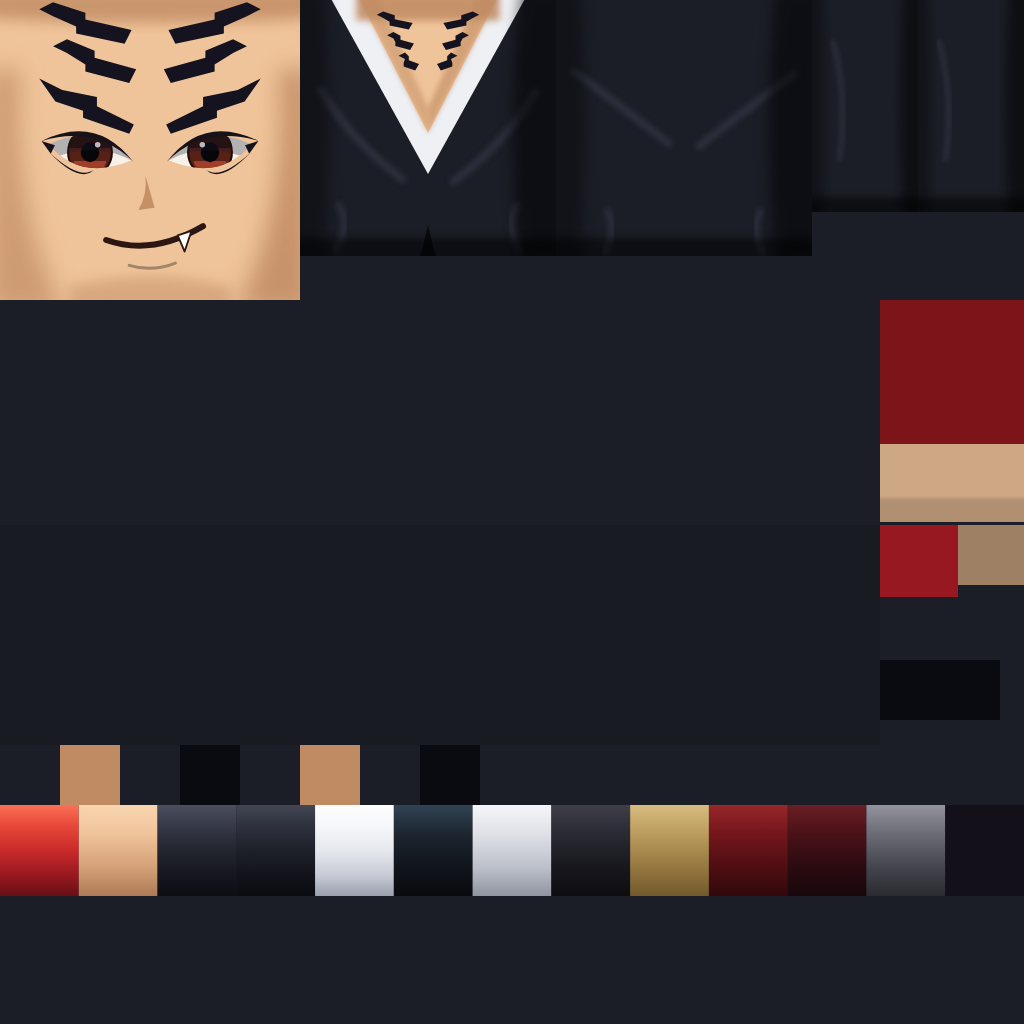
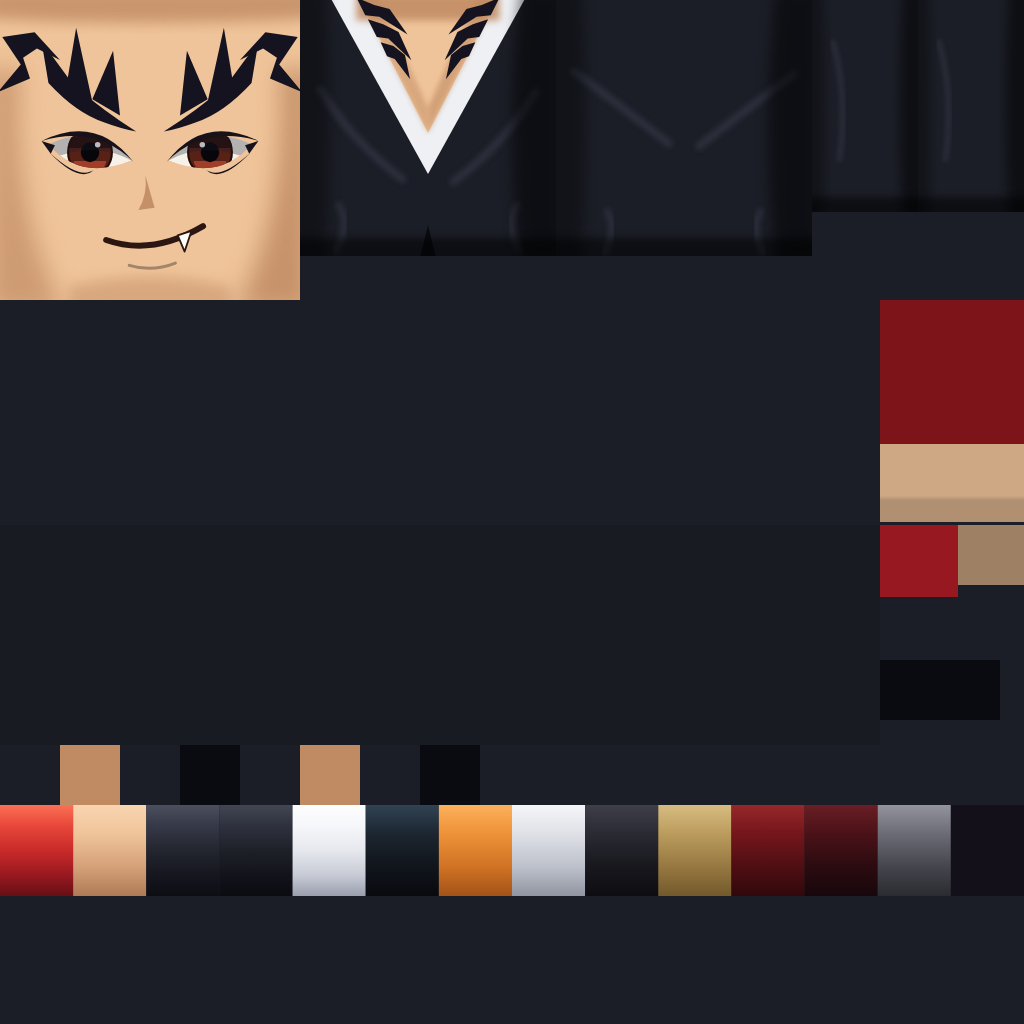
soul_fang: source tattoo layout and striped visor, re-uploaded
Owner 2026-11-04: tattoos are a body pattern; neck bands sit on the chest.

diff --git a/tools/blender/paint/char_soul_fang.py b/tools/blender/paint/char_soul_fang.py
@@ -1,7 +1,7 @@
 # Target look for soul_fang "Renjy" (design doc section 5): a tall red ponytail bursting into spikes, the forehead bare under white-strapped
-# goggles, angular dark brow and forehead marks, marks on the upper chest (the block figure has no neck); a black robe over a white undershirt, a thin white cord,
+# goggles with one dark visor and an orange stripe, forked dark tattoo lines from the brow up the forehead, tattoo wedges at the top of the chest (the block figure has no neck); a black robe over a white undershirt, a thin white cord,
 # wide black hakama, white split-toe socks and straw sandals, a plain sword at his left hip. +X is the viewer's right in the front view.
-# Drawn in-house. Every tattoo line here is a changed shape: same place, size and colour as the source, its own stepped bars.
+# Drawn in-house. The tattoos are a body pattern, not symbol marks (owner 2026-11-04): they follow the source layout and shape.
 import math
 
 from atlas import shade
@@ -12,7 +12,7 @@ from style2 import Ramps
 
 SKIN = "#f0c49a"
 SKIN_D = "#c08a62"
-INK = "#14131f"  # the marks: near black with a little indigo
+INK = "#14131f"  # the tattoos: near black with a little indigo
 COAT = "#1c1e27"
 COAT_L = "#3a3e4e"
 WHITE = "#eef0f4"
@@ -25,6 +25,7 @@ R = Ramps(
 	hakama=["#090a0f", "#12131a", "#1e2029", "#2f323e", "#474a58"],
 	white=["#8f94a4", "#c6cad4", "#e6e8ee", "#f6f7fa", "#ffffff"],
 	lens=["#07080c", "#10141b", "#1c2630", "#34485a"],
+	stripe=["#9c4d17", "#cf7224", "#ee9238", "#ffb561"],
 	strap=["#8a8d9a", "#bcc0ca", "#dfe1e7", "#f8f9fb"],
 	tie=["#0b0b0f", "#17171d", "#2a2a33", "#42424e"],
 	straw=["#6d5428", "#957740", "#bb9c5e", "#dcc186"],
@@ -83,7 +84,7 @@ def _hair(k):
 
 
 def _goggles(k):
-	"""Pushed up where the hair starts: a white strap round the head, two square dark lenses in white frames."""
+	"""Pushed up where the hair starts: a white strap round the head, one dark visor in a white frame, an orange stripe across it."""
 	rings = []
 	n = 16
 	for x_y, z in ((1.0, 5.34), (1.05, 5.36), (1.05, 5.5), (1.0, 5.52)):
@@ -95,11 +96,9 @@ def _goggles(k):
 		rings.append(ring)
 	verts, faces, flat = k._loft(rings)
 	bake(k._mesh("Strap", "Head", verts, faces, flat, outline=0), "strap", k, a=0.52, b=0.4)
-	for s in (1, -1):
-		x = s * 0.38
-		block(k, "Head", f"Frame{s}", x, -0.98, 5.76, 5.34, 0.33, 0.1, "white", ch=0.04, corner=0.25, a=0.56, b=0.4)
-		block(k, "Head", f"Lens{s}", x, -1.085, 5.7, 5.4, 0.26, 0.015, "lens", ch=0.008, corner=0.2, a=0.46, b=0.5, g=0.3)
-	block(k, "Head", "Bridge", 0, -1.04, 5.58, 5.5, 0.07, 0.05, "white", ch=0.015, a=0.54, b=0.4)
+	block(k, "Head", "Frame", 0, -0.98, 5.78, 5.34, 1.0, 0.1, "white", ch=0.04, corner=0.25, a=0.56, b=0.4)
+	block(k, "Head", "Visor", 0, -1.085, 5.71, 5.37, 0.92, 0.015, "lens", ch=0.008, corner=0.2, a=0.46, b=0.5, g=0.3)
+	block(k, "Head", "Stripe", 0, -1.105, 5.61, 5.55, 0.84, 0.008, "stripe", ch=0.004, a=0.56, b=0.3)
 
 
 def _robe(k):
@@ -163,13 +162,6 @@ def model(parts, kit):
 # ---- paint
 
 
-def _bar(f, x0, y0, x1, y1, h, step=3):
-	"""One changed tattoo line: a stepped bar, a square notch cut in its underside, a chevron end."""
-	mx, my = (x0 + x1) / 2, (y0 + y1) / 2
-	d = 1 if x1 > x0 else -1
-	f.path(f"M{x0} {y0}L{mx} {my}L{mx} {my - step}L{x1 - d * h} {y1 - step}L{x1} {y1 - step + h / 2}L{x1 - d * h} {y1 - step + h}L{mx + d * 4} {my - step + h}L{mx + d * 4} {my + h}L{x0 + d * 3} {y0 + h}Z", INK)
-
-
 def _fold(f, x0, y0, cx, cy, x1, y1, op=0.55, sw=6):
 	f.path(f"M{x0} {y0}Q{cx} {cy} {x1} {y1}", stroke=COAT_L, sw=sw, opacity=op, blur=2)
 
@@ -183,11 +175,12 @@ def _torso(a):
 	f.soft("M44 -5H156V16H44Z", SKIN_D, 0.85, 3)
 	f.soft("M44 -5L100 104V84L60 -5Z", SKIN_D, 0.5, 2)
 	f.soft("M156 -5L100 104V84L140 -5Z", SKIN_D, 0.6, 2)
-	# the marks on the neck and upper chest
+	# the neck tattoos, moved to the top of the chest: stacked wedges rooted at the collar, tips running in and down
 	for s in (1, -1):
-		_bar(f, 100 + s * 12, 18, 100 + s * 40, 12, 5)
-		_bar(f, 100 + s * 11, 34, 100 + s * 32, 28, 5)
-		_bar(f, 100 + s * 7, 50, 100 + s * 23, 44, 5)
+		c = lambda u: 100 + s * u
+		f.path(f"M{c(56)} -2L{c(49)} 12L{c(38)} 13L{c(16)} 27L{c(30)} 7L{c(42)} 4Z", INK)
+		f.path(f"M{c(47)} 15L{c(40)} 29L{c(31)} 30L{c(13)} 47L{c(23)} 25L{c(35)} 19Z", INK)
+		f.path(f"M{c(37)} 33L{c(32)} 44L{c(26)} 46L{c(14)} 62L{c(18)} 43L{c(27)} 36Z", INK)
 	_fold(f, 16, 70, 40, 110, 80, 140)
 	_fold(f, 184, 72, 160, 112, 120, 142)
 	_fold(f, 30, 160, 40, 175, 28, 196, 0.5, 5)
@@ -229,12 +222,14 @@ def _face(f):
 	f.soft("M30 124Q65 116 100 124V135H30Z", SKIN_D, 0.5, 3)
 	for cx, s in ((39, -1), (91, 1)):
 		eye2(f, cx, 66, s, 36, 15, "#6e2a1c", tilt=3.6, r=9.5, lid=0.22, lash="#17121a", lash_t=3.2, flick=3, pupil=0.42, sclera="#f6f2ea", crease_line=False)
-		# the tattooed brow, changed: a heavy stepped wedge, inner end low, a barb on top at the outer end
-		ix, ox = cx - s * 19, cx + s * 22
-		f.path(f"M{ix} 54L{cx - s * 3} 46L{cx - s * 3} 42L{cx + s * 12} 39L{ox} 34L{cx + s * 15} 44L{cx + s * 3} 48L{cx + s * 3} 51L{ix + s * 2} 58Z", INK)
-		# the forehead marks, changed: two stepped bars running up from the brow
-		_bar(f, cx - s * 20, 30, cx + s * 16, 20, 6)
-		_bar(f, cx - s * 18, 13, cx + s * 22, 4, 6)
+		# the tattoo: a brow line, pointed and low at the nose, thick as it climbs out to the temple
+		c = lambda u: 65 + s * u
+		f.path(f"M{c(6)} 57Q{c(20)} 48 {c(33)} 37L{c(47)} 18L{c(44)} 36Q{c(32)} 49 {c(20)} 53Q{c(12)} 56 {c(6)} 57Z", INK)
+		# forks rising off it to the hairline
+		f.path(f"M{c(13)} 50L{c(16)} 22L{c(25)} 43Z", INK)
+		f.path(f"M{c(25)} 44L{c(32)} 12L{c(36)} 36Z", INK)
+		# the upper line along the hairline, ending in a zigzag at the temple
+		f.path(f"M{c(39)} 26L{c(50)} 14L{c(64)} 16L{c(56)} 28L{c(66)} 40L{c(52)} 34L{c(55)} 25L{c(49)} 21Z", INK)
 	# nose, a hard grin on one side with one fang
 	f.path("M63 76L67 90L60 91Q64 84 63 76Z", SKIN_D, opacity=0.9)
 	f.path("M46 104Q66 111 88 98", stroke="#2c1612", sw=2.6)

diff --git a/docs/char_evidence/soul_fang.md b/docs/char_evidence/soul_fang.md
@@ -11,9 +11,17 @@ Licensing: no Roblox-supported license found, unlicensed reference. The tweaked 
 | Hair style | Long, tied high so it stands up vertically | supported | same two pages | Soul Society arc | 2026-11-04 |
 | Spiky burst and tail length | Faceted spikes, tail falling behind to the neck | inferred | Memory of the design, no text gives the length | Soul Society arc | 2026-11-04 |
 | Goggles on the forehead | Worn on the forehead early on, later destroyed | supported | https://baike.baidu.com/en/item/Abarai%20Renji/1417807 | Early stages | 2026-11-04 |
-| Goggle look | White strap and frames, dark square lenses | inferred | Memory of the design, no text source | Soul Society arc | 2026-11-04 |
+| Goggle look | One dark visor in a light frame, an orange stripe across it | inferred (seen in an image, look only) | https://www.absoluteanime.com/bleach/renji.webp ; https://upload.wikimedia.org/wikipedia/en/2/2e/RenjiAbaraiKubo.png | Soul Society arc anime frame; volume 11 cover | 2026-11-04 |
+| Goggle strap | White strap round the head | inferred | Memory of the design; not clear in either image | Soul Society arc | 2026-11-04 |
 | Forehead tattoos | Extensive, above the eyebrows | supported | https://baike.baidu.com/en/item/Abarai%20Renji/1417807 | All | 2026-11-04 |
-| Tattooed eyebrows | Brows are tattoos | inferred | Search result summary only; the page could not be read directly | All | 2026-11-04 |
+| Tattooed eyebrows | Brows are tattoos | supported | https://sketchok.com/anime/bleach/how-to-draw-renji-abarais-face-with-tattoos-and-wild-hair/ ("running from his eyebrows upward across his forehead") | All | 2026-11-04 |
+| Brow and forehead tattoo place | From the brows upward across the forehead, symmetrical | supported | https://sketchok.com/anime/bleach/how-to-draw-renji-abarais-face-with-tattoos-and-wild-hair/ | All | 2026-11-04 |
+| Brow and forehead tattoo shape | Pointed brow line, low at the nose, thickening out to the temple; forks rising off it; an upper line ending in a zigzag at the temple | inferred (seen in an image, look only) | https://www.absoluteanime.com/bleach/renji.webp ; https://www.absoluteanime.com/bleach/renji%5B2%5D.webp | Soul Society arc anime frames | 2026-11-04 |
+| Fork count and exact angles | Two forks a side; drawn to fit the block face | inferred (low-resolution images; goggles or bandage hide the top of the forehead) | Same two images | Soul Society arc | 2026-11-04 |
+| Neck tattoo place | Neck and upper chest, matching | supported | https://sketchok.com/anime/bleach/how-to-draw-renji-abarais-face-with-tattoos-and-wild-hair/ | All | 2026-11-04 |
+| Neck tattoo shape | Stacked pointed wedges each side, rooted at the outer edge, tips running in and down | inferred (seen in an image, look only) | https://www.absoluteanime.com/bleach/renji.webp ; https://s4.anilist.co/file/anilistcdn/character/large/b906-ImRjx5HFM8X6.png | Soul Society arc frame; later-era portrait | 2026-11-04 |
+| Number of neck wedges | Three a side | inferred (the frame shows about two, the later portrait about three) | Same two images | Mixed | 2026-11-04 |
+| Upper chest blocks | Heavy square-cut blocks either side of the breastbone; not modelled | inferred (seen in an image, look only) | https://s4.anilist.co/file/anilistcdn/character/large/b906-ImRjx5HFM8X6.png ; https://www.hobbyco.com.au/products/s-h-figuarts-renji-abarai (product photos) | Later era only; absent from the Soul Society frame | 2026-11-04 |
 | Neck, shoulder, chest tattoos | Present; grow over time | supported | https://baike.baidu.com/en/item/Abarai%20Renji/1417807 ; https://wikipedia2007.classicistranieri.com/r/e/n/Renji_Abarai_4689.html | All | 2026-11-04 |
 | Tattoo colour | Near black with some indigo | supported (indigo) / inferred (near black) | https://baike.baidu.com/en/item/Abarai%20Renji/1417807 | All | 2026-11-04 |
 | Clothes | Standard soul reaper outfit, black robe and hakama | supported (standard outfit) / inferred (colours and parts) | https://wikipedia2007.classicistranieri.com/r/e/n/Renji_Abarai_4689.html | Soul Society arc | 2026-11-04 |
@@ -26,16 +34,23 @@ Licensing: no Roblox-supported license found, unlicensed reference. The tweaked 
 ## Contradictions and choices
 - Headgear: the 2007 Wikipedia copy says "expensive-looking glasses", Baidu says goggles. Chose goggles, as the brief and the arc's look do.
 - Tattoo colour: Baidu says indigo, memory says black. Chose near black with a little indigo.
-- Allowed departure from the design: the block figure has no neck, so the neck marks sit at the top of the chest opening.
+- Goggle look: the earlier two square lenses contradicted the images, so one visor replaced them (design doc section 5 Likeness). Same place on the forehead.
+- Chest blocks: seen only in later-era images, so they are not painted. Adding them to this Soul Society version would be a mixed form.
 - Tattoos on the back, stomach and thighs are under the robe and are not painted.
 
-## Marks (same place, size and colours; clearly different shape)
-- Forehead tattoo: two stepped bars with a square notch and a chevron end, in place of the source's lines.
-- Tattooed brow: a stepped wedge with a barb at the outer end, in place of the source's forked line.
-- Chest and neck tattoo: three pairs of the same stepped bar, in place of the source's bands.
+## Owner rulings
+- 2026-11-04: the tattoos are a body pattern, not symbol marks, like `jk_king` face lines and `foe_ds` body lines. They follow the source layout and shape, so the Marks rule (design doc section 5) does not change their shape. This replaces the earlier stepped bars and chevrons.
+- 2026-11-04: owner-accepted departure: the source's neck tattoos stay at the top of the chest, because the block figure has no neck.
+
+## Body pattern as painted
+- Brow and forehead: drawn in-house, following the layout under "Brow and forehead tattoo shape" above.
+- Top of the chest: three stacked wedges a side, drawn in-house, in the place given by the second ruling.
+- Reference images were viewed only, from outside this repo. None is saved here and nothing was traced or copied into the atlas.
 
 ## Sources that refused or failed
 - https://bleach.fandom.com/wiki/Renji_Abarai answered 402. Not retried and not disguised.
 - https://comicvine.gamespot.com/renji-arabai/4005-43022/ and https://giantbomb.com/wiki/Characters/Renji_Abarai answered 403.
 - https://www.animecharactersdatabase.com/characters.php?id=6861 answered 503.
+- https://bleach.neoseeker.com/wiki/Renji_Abarai and the step images at https://sketchok.com/images/articles/06-anime/004-bleach/54/17.jpg answered 403. Not retried and not disguised.
+- https://en.wikipedia.org/wiki/Renji_Abarai has no text on the tattoos. https://www.absoluteanime.com/bleach/renji has none either, only the images used above.
 - All text sources are community or encyclopedic pages; no official publisher page was read. Nothing was confirmed against the manga or anime directly.

diff --git a/docs/CHARACTER_ART_REFERENCES.md b/docs/CHARACTER_ART_REFERENCES.md
@@ -88,7 +88,7 @@ Marks follow design doc 5 "Marks": same place, size and colour, a clearly differ
 Evidence per character: `docs/char_evidence/`. Marks follow design doc 5 "Marks".
 
 - `soul_healer` Orihima [Orihime]: hairpin pair is a four-pointed star with a square centre, not a six-petal flower.
-- `soul_fang` Renjy [Renji]: forehead, brow and chest tattoos are stepped bars and wedges, not the source lines. The block figure has no neck, so the neck bands sit at the top of the chest V: a departure from "same place" for the rules audit.
+- `soul_fang` Renjy [Renji]: no marks. Tattoos are a body pattern following the source layout (owner 2026-11-04). The block figure has no neck, so the neck bands sit at the top of the chest (owner-accepted departure, same date).
 - `soul_substitute` Ichigu [Ichigo]: badge is an upright diamond plate with a crescent, not a plaque with a skull.
 - `soul_hollow` Ulquiorro: shares `foe_soul` (see Track enemies).
 - `soul_ice` Rukiya [Rukia], `soul_lord` Aizon [Aizen]: no marks.

diff --git a/docs/CHARACTER_GACHA_SPEC.md b/docs/CHARACTER_GACHA_SPEC.md
@@ -35,7 +35,7 @@ Relies on `docs/GAME_DESIGN_REQUIREMENTS.md` sections 3, 4.1, 4.5, 4.8, 5 and 6.
 - Turbo luck every 10th roll x10; upgrade tiers raise both.
 - Bands (1 in N):
 
-| Rarity | Chance band | SpeedMulti band | Count at launch |
+| Rarity | Chance band | SpeedMulti band | Launch count (before Bleech) |
 |---|---|---|---|
 | Common | 1 (catch-all) | 1.1 | 1 |
 | Uncommon | 10 - 200 | 1.25 - 2.2 | 6 |
@@ -141,7 +141,7 @@ the event.
 | `jk_night` | Toje | Toji | Jujitsu Kaisan | Legendary | S | `night` | 4.3e7 | 8 |
 | `sea_gold` | Rojer | Gol D. Roger | One Peace | Legendary | B | `gold` | 6.2e8 | 10 |
 
-Catalog total: 30 regular + 3 event-only = 33 rollable characters, plus the starter.
+Catalog total: 36 regular (30 launch cast + 6 Bleech, owner 2026-11-04) + 3 event-only = 39 characters, plus the starter.
 
 Preset trios (the anime's famous team):
 

diff --git a/docs/char_evidence/soul_hollow.md b/docs/char_evidence/soul_hollow.md
@@ -1,0 +1,3 @@
+# soul_hollow (Ulquiorro)
+
+Shares the `foe_soul` model (design doc 4.30). Evidence and marks: the agent report for `foe_soul` and `docs/CHARACTER_ART_REFERENCES.md` "Track enemies"; this file records no separate check. Licensing: no Roblox-supported license found, unlicensed reference.
